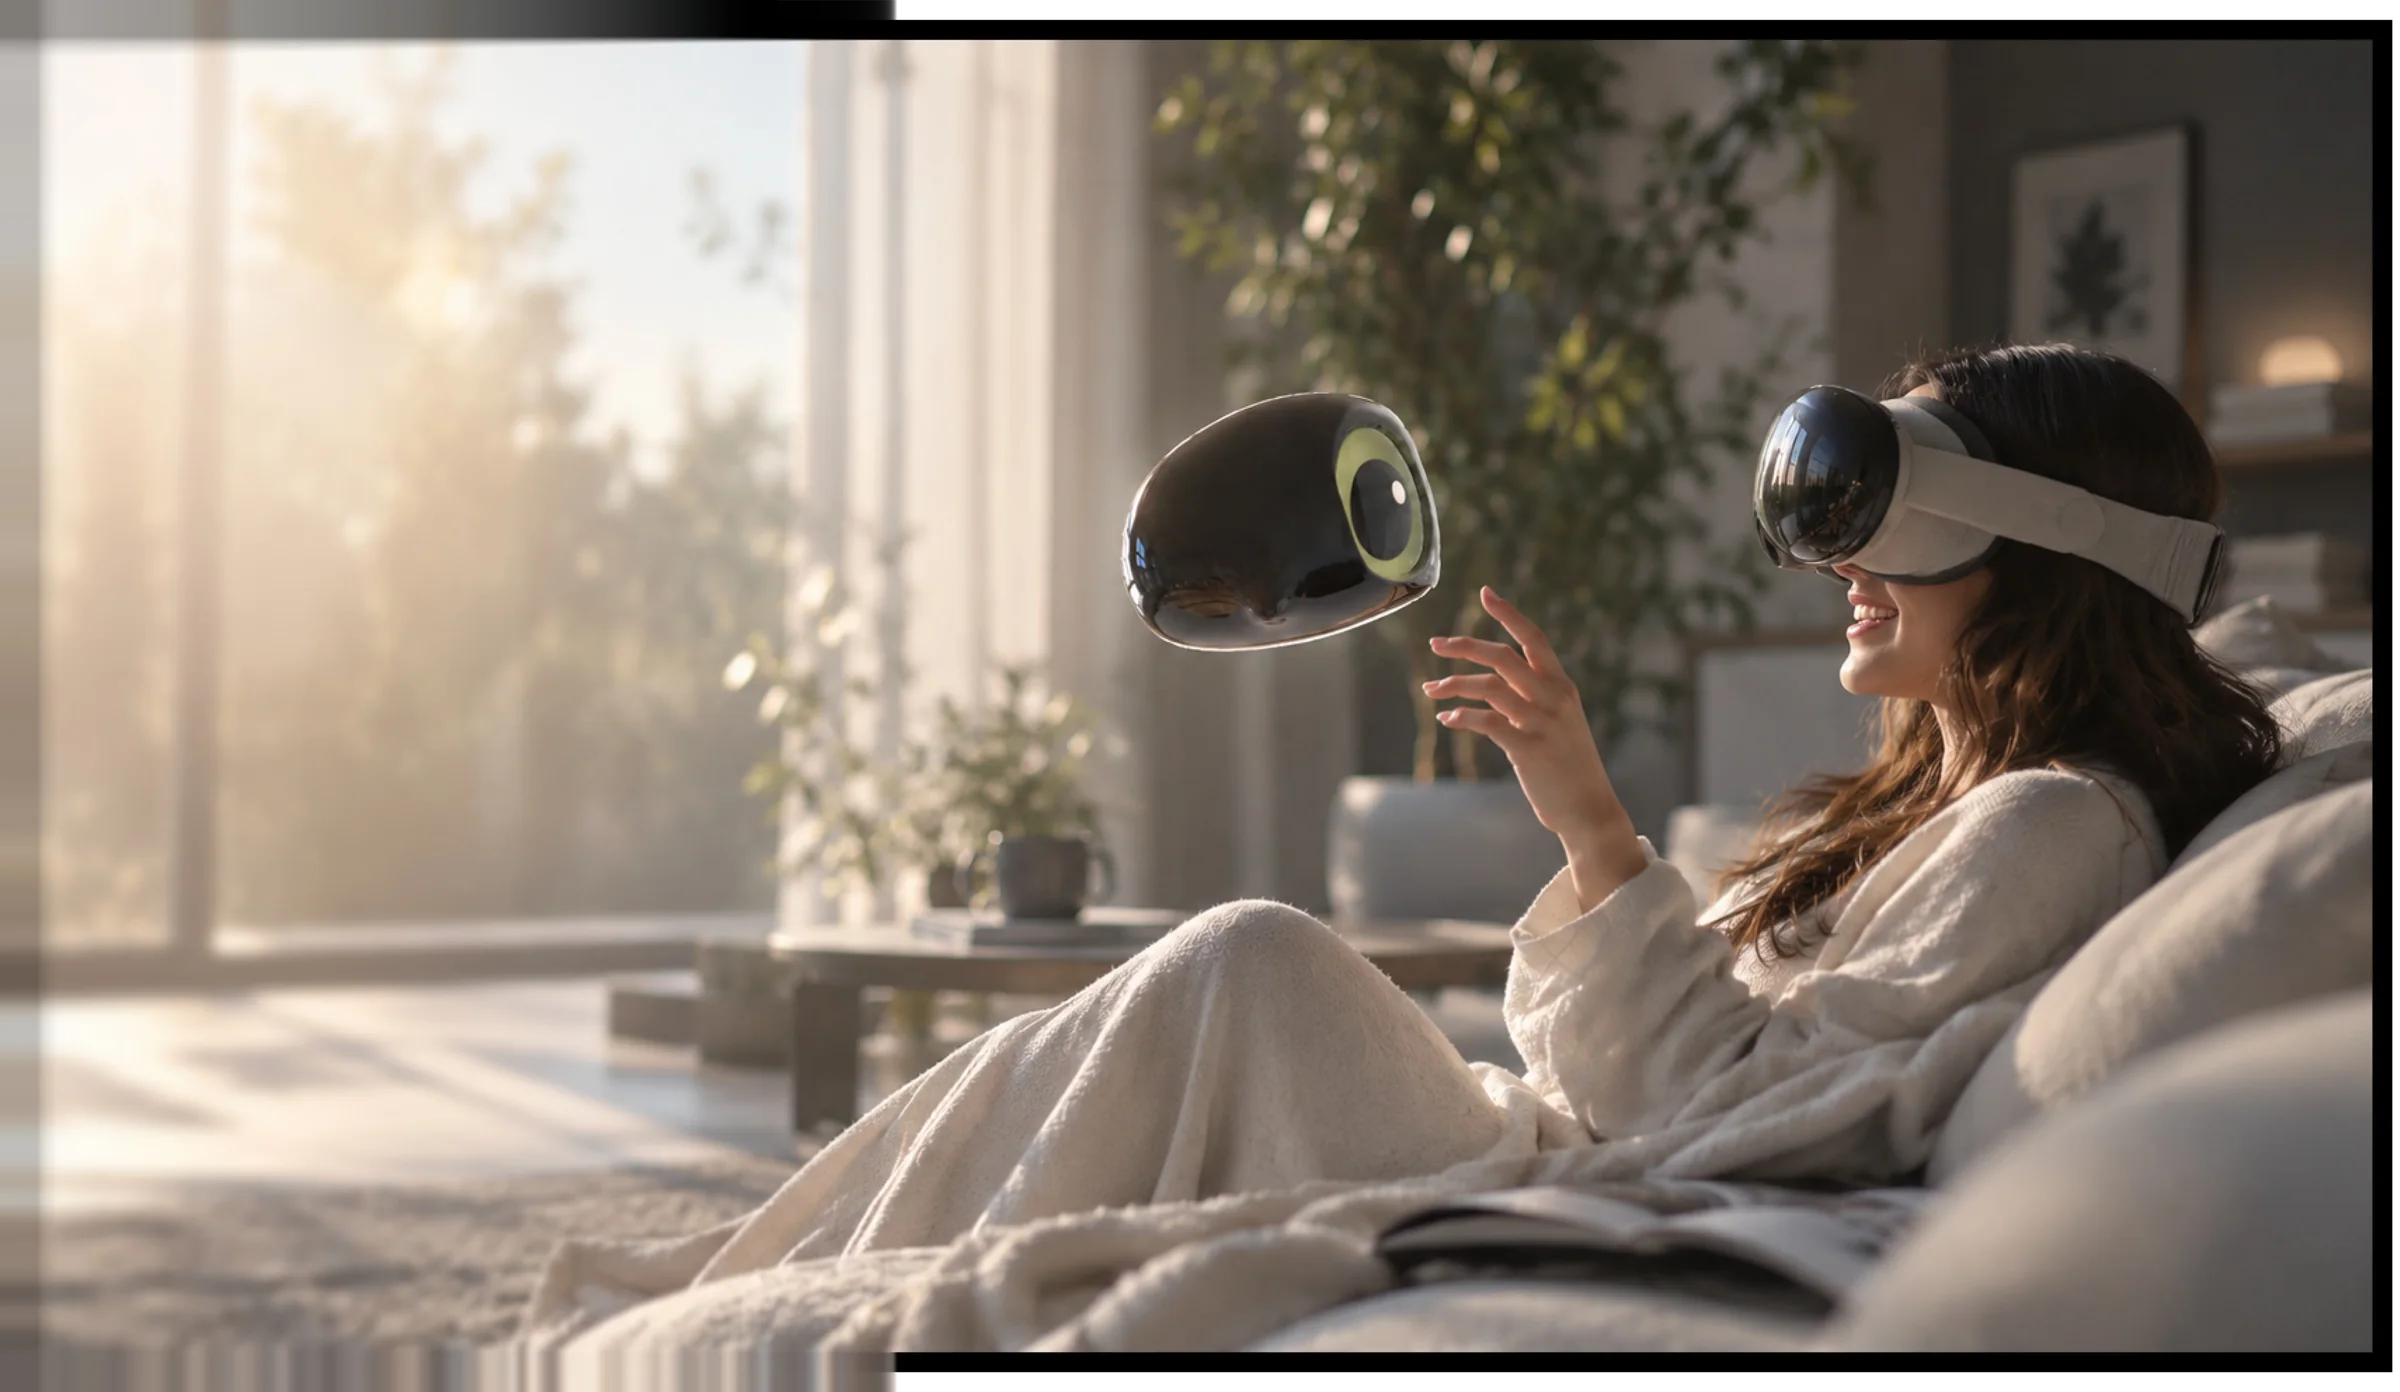
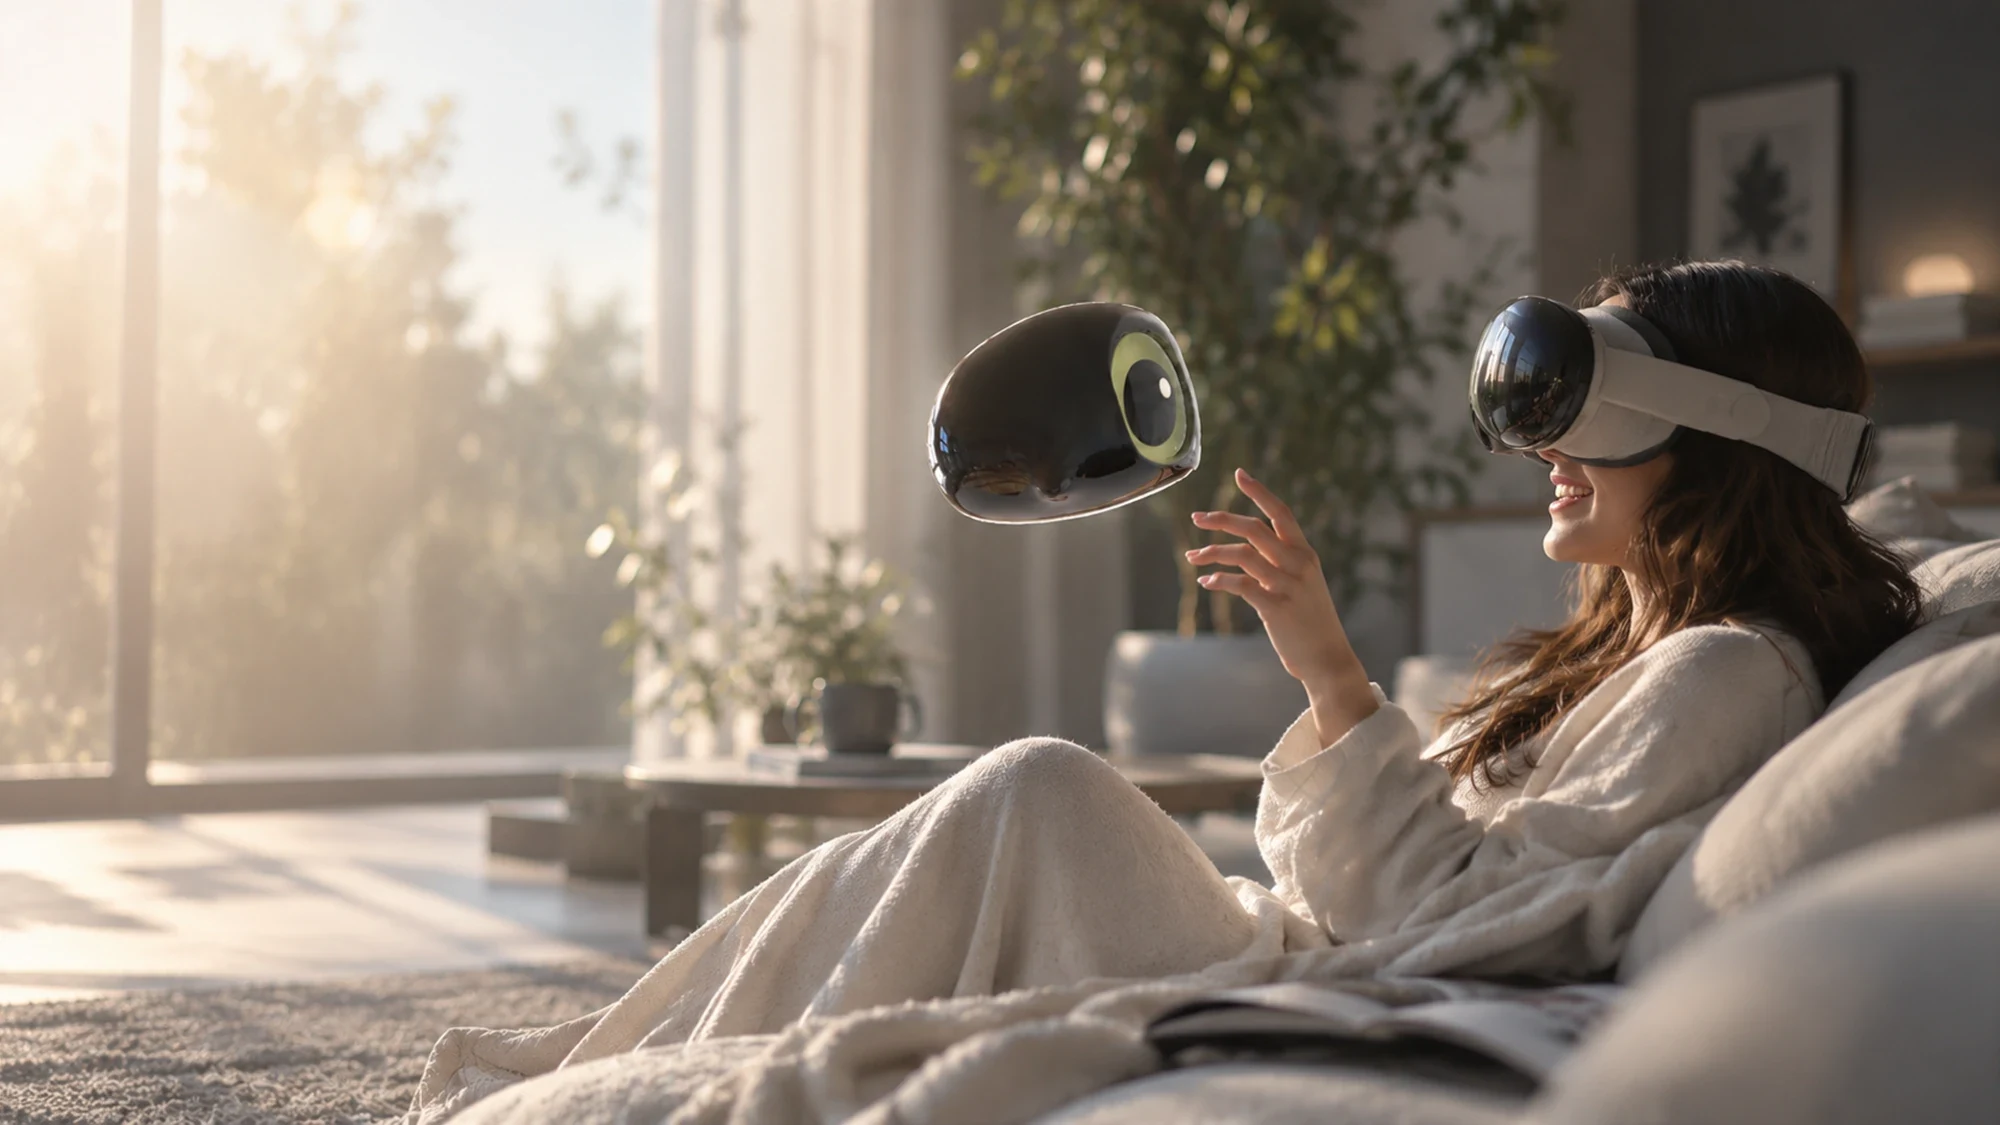
Bola: sharp hero image, framed clear of the title

diff --git a/work/bola.html b/work/bola.html
@@ -33,7 +33,7 @@
 <main>
   <!-- HERO -->
   <header class="case-hero">
-    <div class="case-hero-bg" style="--hero-pos:60% 50%;--hero-pos-m:58% 50%"><img src="/assets/img/bola/hero.webp" width="2400" height="1392" alt="A woman on a sofa wearing an Apple Vision Pro reaches toward Bola, a glossy black AI pet floating in her living room" fetchpriority="high"></div>
+    <div class="case-hero-bg" style="--hero-pos:60% 50%;--hero-pos-m:62% 50%"><img style="transform:scale(1.16);transform-origin:0% 55%" src="/assets/img/bola/hero.webp" width="2000" height="1125" alt="A woman on a sofa wearing an Apple Vision Pro reaches toward Bola, a glossy black AI pet floating in her living room" fetchpriority="high"></div>
     <div class="wrap">
       <h1 class="reveal"><span class="grad">MR AI Pet</span></h1>
       <p class="sub reveal d1">An AI digital sprite in mixed reality</p>

diff --git a/assets/css/main.css b/assets/css/main.css
@@ -983,6 +983,7 @@ a.vibe:hover .link-arrow svg { transform: translateX(4px); }
   .two-m > * { grid-column: auto !important; }
   .case-hero-bg::after { background: linear-gradient(0deg, #000 10%, rgba(0, 0, 0, 0.75) 45%, rgba(0, 0, 0, 0.35) 100%); }
   .case-hero { align-items: flex-end; }
+  .case-hero-bg img[style*="scale(1.16)"] { transform: none !important; }
 }
 
 @media (max-width: 600px) {
